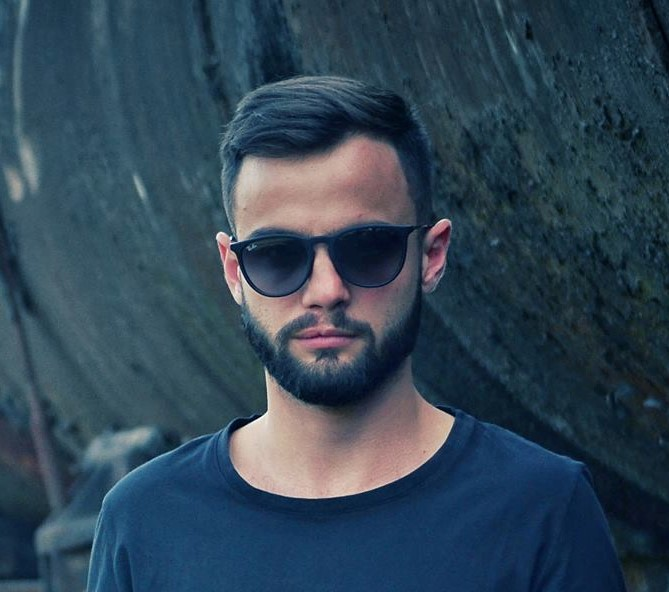
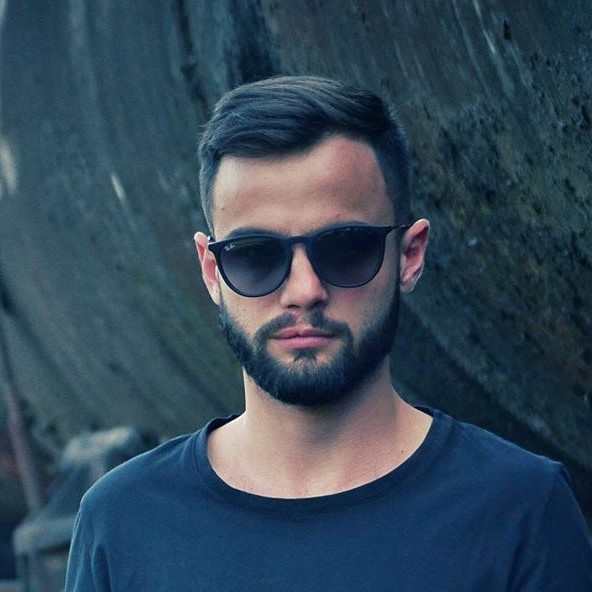
nading

diff --git a/index.html b/index.html
@@ -204,7 +204,7 @@
         <div class="col">
           <div class="team-member">
             <img class="mx-auto rounded-circle" src="img/team/lucioagustin.jpg" alt="">
-            <h4>Lucio Agustin</h4>
+            <h4>Lucio Agustín</h4>
             <p class="text-muted">Minimal Deep Tech <span class="badge badge-primary">Main DJ</span></p>
             <ul class="list-inline social-buttons">
               <li class="list-inline-item">
@@ -286,8 +286,8 @@
         </div>
         <div class="col-sm-4">
           <div class="team-member">
-            <img class="mx-auto rounded-circle" src="img/team/lucioagustin.jpg" alt="">
-            <h4>Jordi Bruneto</h4>
+            <img class="mx-auto rounded-circle" src="img/team/jorden.jpg" alt="">
+            <h4>Jordi Brunet</h4>
             <p class="text-muted">Minimal Deep Tech <span class="badge badge-warning">Opening</span></p>
             <ul class="list-inline social-buttons">
               <li class="list-inline-item">
@@ -365,6 +365,63 @@
       </div> -->
     </div>
   </section>
+  <section class="gray-bg page-section-pt happy-clients">
+  <div class="container">
+    <div class="row">
+      <div class="col-lg-6 align-self-end">
+           <img class="d-xs-block d-lg-block d-none img-fluid" src="images/objects/testimonial.png" alt="">
+      </div>
+    <div class="col-lg-6 mt-60">
+      <div class="section-title">
+        <h6>Have a look at our</h6>
+        <h2 class="title-effect">Client Opinions & Reviews</h2>
+      </div>
+     <div class="tab">
+      <div class="tab-content" id="nav-tabContent">
+       <div class="tab-pane fade show active" id="testi-01"> 
+          <span class="quoter-icon">“</span>
+          <p>I had a few things I needed help with on this template... Their customer service was amazing and helped me out many times. All fits and works well and good!! Top marks. One of the complete template with different requirements. Thanks a lot for such great features, pages, shortcodes and home variations. Incredible Job.</p>
+          <div class="testimonial-avatar">
+            <h5>Acapella </h5>
+            <span>ThemeForest user</span>
+          </div>
+        </div>
+        <div class="tab-pane fade" id="testi-02"> 
+          <span class="quoter-icon">“</span>
+          <p>Really like the cleanliness of the design, the documentation and the content-blocks. Obviously it is still a relatively new template (version 1.0.3), so it lacks some features that you'll find in more mature templates. But their support is swift and very co-operative. Kudos!</p>
+          <div class="testimonial-avatar">
+            <h5>Tenfore </h5>
+            <span>ThemeForest user</span>
+          </div>
+        </div>
+        <div class="tab-pane fade" id="testi-03">
+          <span class="quoter-icon">“</span> 
+          <p> One of the complete template with different requirements. Thanks a lot for such great features, pages, shortcodes and home variations. Incredible Job. I had a few things I needed help with on this template... Their customer service was amazing and helped me out many times. All fits and works well and good!! Top marks.</p>
+          <div class="testimonial-avatar">
+            <h5>Acapella </h5>
+            <span>ThemeForest user</span>
+          </div>
+        </div>
+        <div class="tab-pane fade" id="testi-04"> 
+          <span class="quoter-icon">“</span>
+          <p>The quality of design is very good and make sense to the real world requirement. yes its multipurpose template and i found what i wanted from this theme. perfectly suitable for my business and design is flexible with multiple layout provided. good work keep it up.</p>
+          <div class="testimonial-avatar">
+            <h5>Shopperbox </h5>
+            <span>ThemeForest user</span>
+          </div>
+         </div>
+         <ul class="nav nav-tabs mt-60" id="myTab" role="tablist">
+           <li><a class="nav-item active" href="#testi-01" data-toggle="tab"><img class="img-fluid" src="images/team/01.jpg" alt=""> </a></li>
+           <li><a class="nav-item" href="#testi-02" data-toggle="tab"><img class="img-fluid" src="images/team/02.jpg" alt=""> </a></li>
+           <li><a class="nav-item" href="#testi-03" data-toggle="tab"><img class="img-fluid" src="images/team/03.jpg" alt=""> </a></li>
+           <li><a class="nav-item" href="#testi-04" data-toggle="tab"><img class="img-fluid" src="images/team/04.jpg" alt=""> </a></li>
+          </ul>
+       </div>
+     </div>
+    </div>  
+   </div>
+ </div>
+</section>
   <section id="banermpg">
     <div id="left">
         <p id="mpg"><strong>Pagá con Mercado Pago</strong></p>
@@ -387,7 +444,7 @@
           <br>
         </div>
       </div>
-
+      
         <table class="table">
         <thead class="thead-dark">
           <tr>
@@ -446,8 +503,15 @@
             <td>Centro</td>
             <td>(381) 600-6061 &nbsp;&nbsp; <a href="https://api.whatsapp.com/send?phone=5493816006061&text=Hola%20Gonzalo!%20Quiero%20comprar%20mi%20entrada%20para%20Groov%20Episodes!" class="btn btn-dark">Chatea ahora</a></td>
           </tr>
+          <tr>
+            <th scope="row">9</th>
+            <td>Paula Cortes</td>
+            <td>Centro</td>
+            <td>(381) 468-1690 &nbsp;&nbsp; <a href="https://api.whatsapp.com/send?phone=5493814681690&text=Hola%20Paula!%20Quiero%20comprar%20mi%20entrada%20para%20Groov%20Episodes!" class="btn btn-dark">Chatea ahora</a></td>
+          </tr>
         </tbody>
       </table>
+      
       </div>
     </div>
   </section>
@@ -508,17 +572,17 @@
         <div class="col-md-4">
           <ul class="list-inline social-buttons">
             <li class="list-inline-item">
-              <a href="#">
+              <a href="https://www.instagram.com/groov.episodes/">
                 <i class="fab fa-instagram"></i>
               </a>
             </li>
             <li class="list-inline-item">
-              <a href="#">
+              <a href="https://www.facebook.com/groov.episodes/?__tn__=%2Cd%2CP-R&eid=ARDbqXyXgoYZ8-pCjmImRxzvFqNk0Bn1QaEmbyVXuyifiZ51lOPkzoCjRGZMEYAHPF6KZU-dRr9Y5yyO">
                 <i class="fab fa-facebook-f"></i>
               </a>
             </li>
             <li class="list-inline-item">
-              <a href="#">                
+                <a href="https://api.whatsapp.com/send?phone=5493816251987&text=Hola%20José!%20Tengo%20una%20duda%20sobre%20Groov%20Episodes!">
                 <i class="fab fa-whatsapp"></i>
               </a>
             </li>
